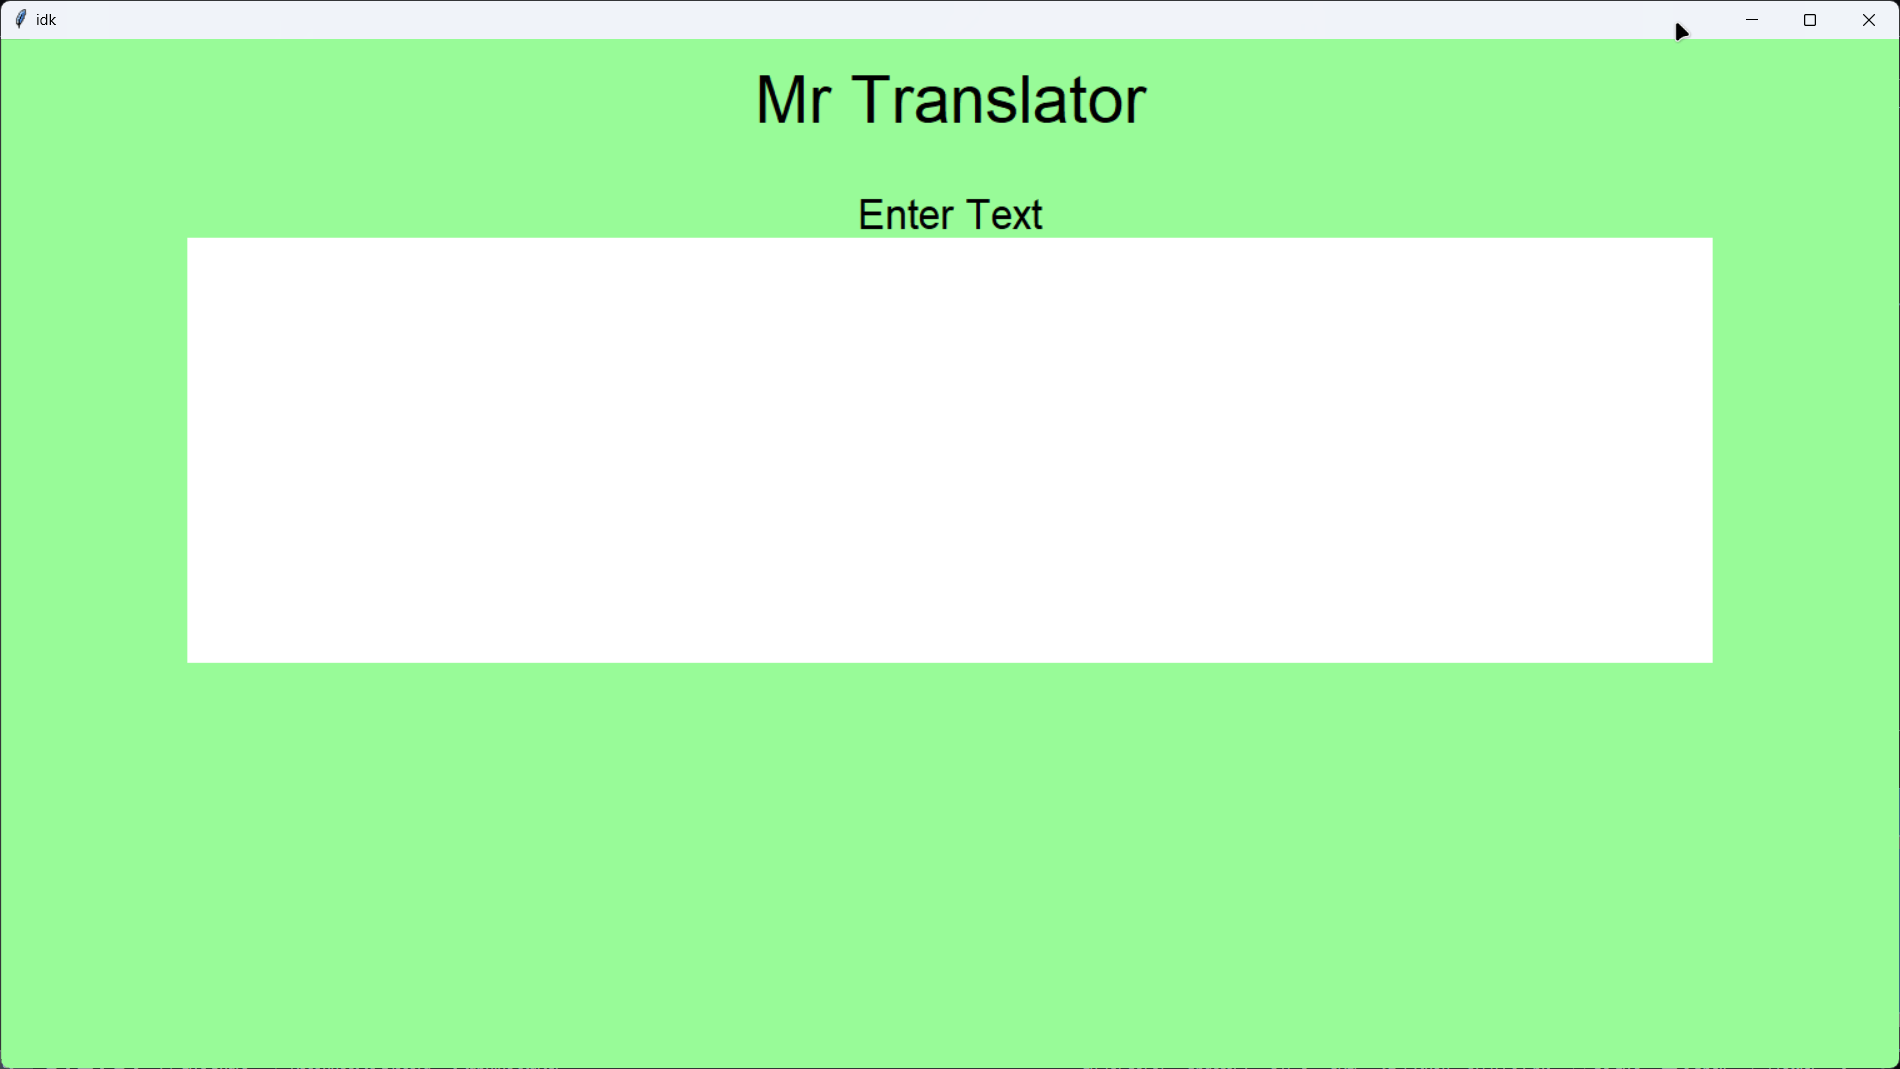
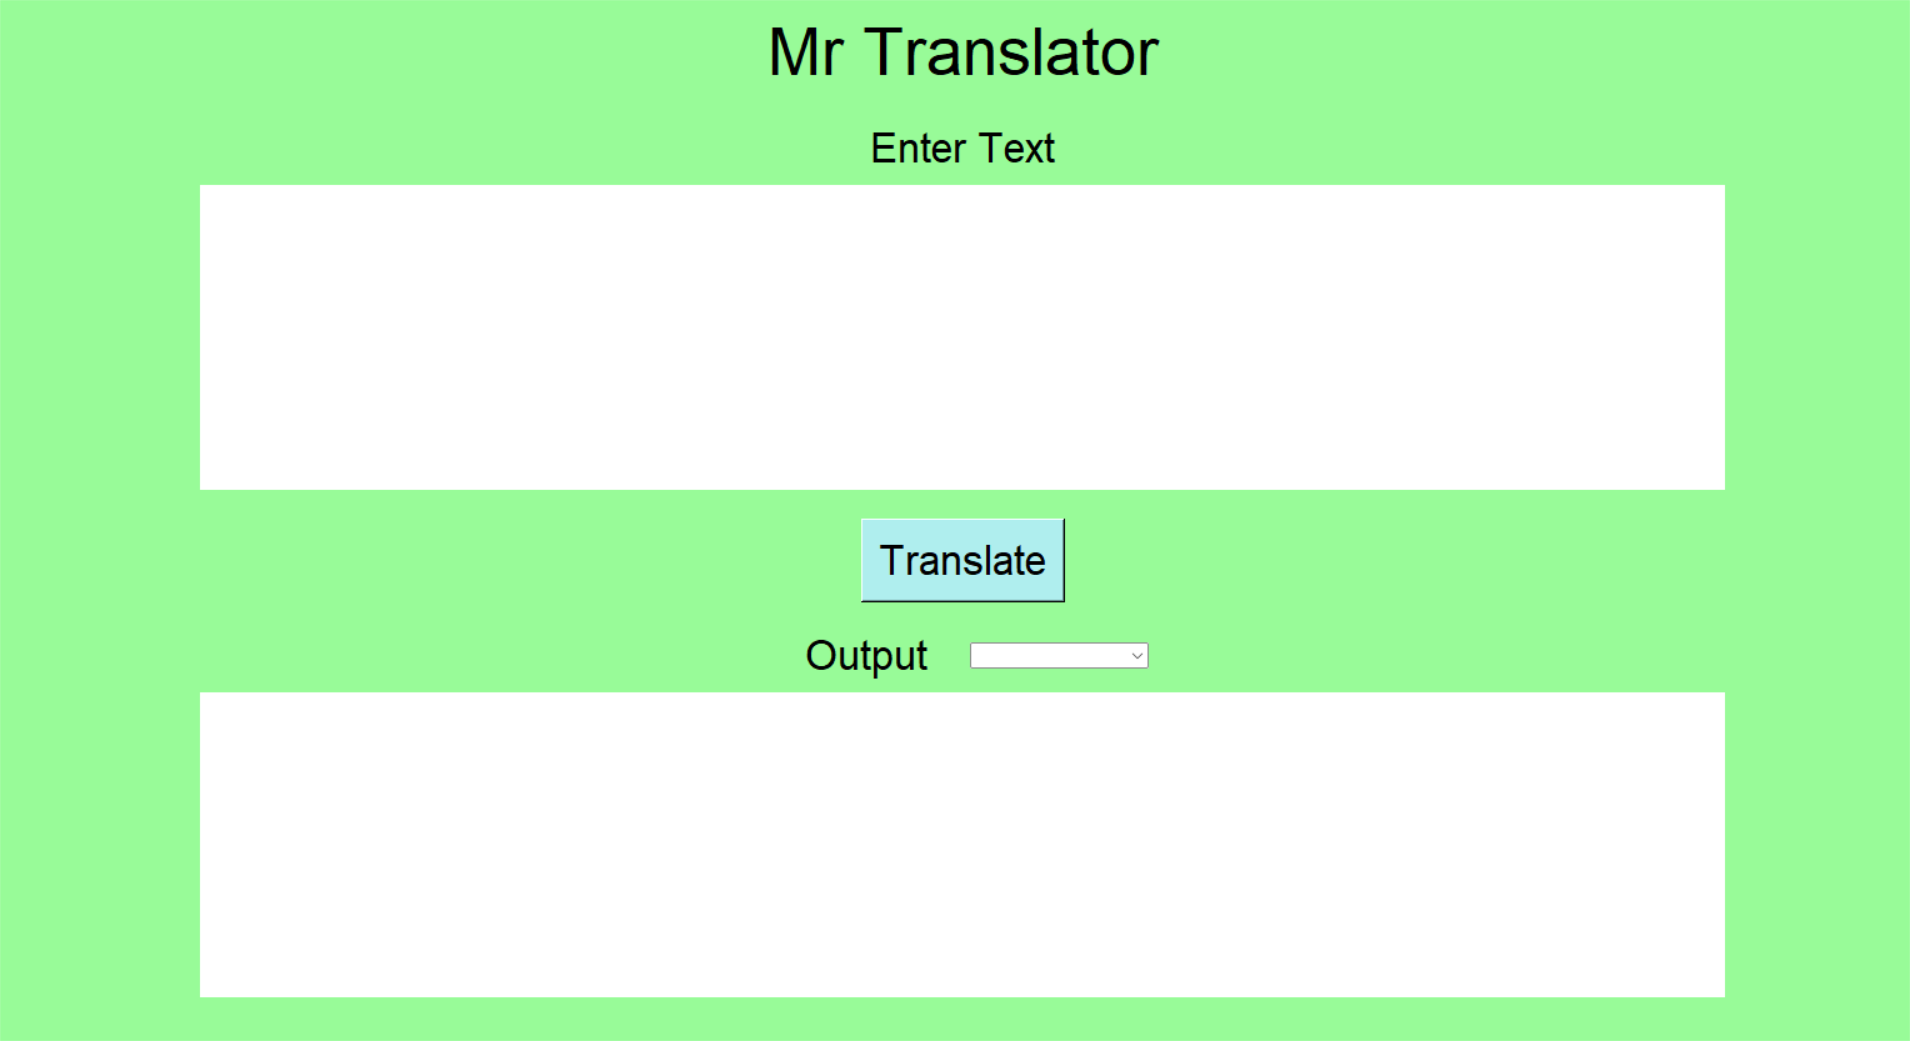
fe

diff --git a/app.py b/app.py
@@ -1,18 +1,37 @@
 from googletrans import Translator
+import googletrans
 from tkinter import *
+from tkinter import ttk
 
 root = Tk()
 root.title("idk")
 root.geometry("1600x1600")
 root.config(bg="pale green")
 
+ll = list(googletrans.LANGUAGES.values())
+
+
 head = Label(root, text="Mr Translator", font=("Arial", 40), bg="pale green")
-head.place(anchor=CENTER, relx=0.5, rely=0.06)
+head.place(anchor=CENTER, relx=0.5, rely=0.05)
 
 Et = Label(root, text="Enter Text", font=("Arial", 25), bg="pale green")
-Et.place(anchor=CENTER, relx=0.5, rely=0.17)
+Et.place(anchor=CENTER, relx=0.5, rely=0.14)
 
-TextArea = Text(root, font=("Arial", 20), wrap=WORD, height=10, bd=0, padx=10, pady=10)
-TextArea.place(anchor=CENTER, relx=0.5, rely=0.4)
+TextAreaIN = Text(root, font=("Arial", 20), wrap=WORD, height=7, bd=0, padx=10, pady=10)
+TextAreaIN.place(anchor=CENTER, relx=0.5, rely=0.32)
+
+OutLabel = Label(root, text="Output", font=("Arial", 25), bg="pale green")
+OutLabel.place(anchor=CENTER, relx=0.45, rely=0.62)
+
+LangOut = ttk.Combobox(root, state="readonly", values=ll, width=20)
+LangOut.place(anchor=CENTER, relx=0.55, rely=0.62)
+
+TextAreaOUT = Text(
+    root, font=("Arial", 20), wrap=WORD, height=7, bd=0, padx=10, pady=10
+)
+TextAreaOUT.place(anchor=CENTER, relx=0.5, rely=0.8)
+
+btn = Button(root, font=("Arial", 25), text="Translate", bg="pale turquoise")
+btn.place(anchor=CENTER, relx=0.5, rely=0.53)
 
 root.mainloop()
